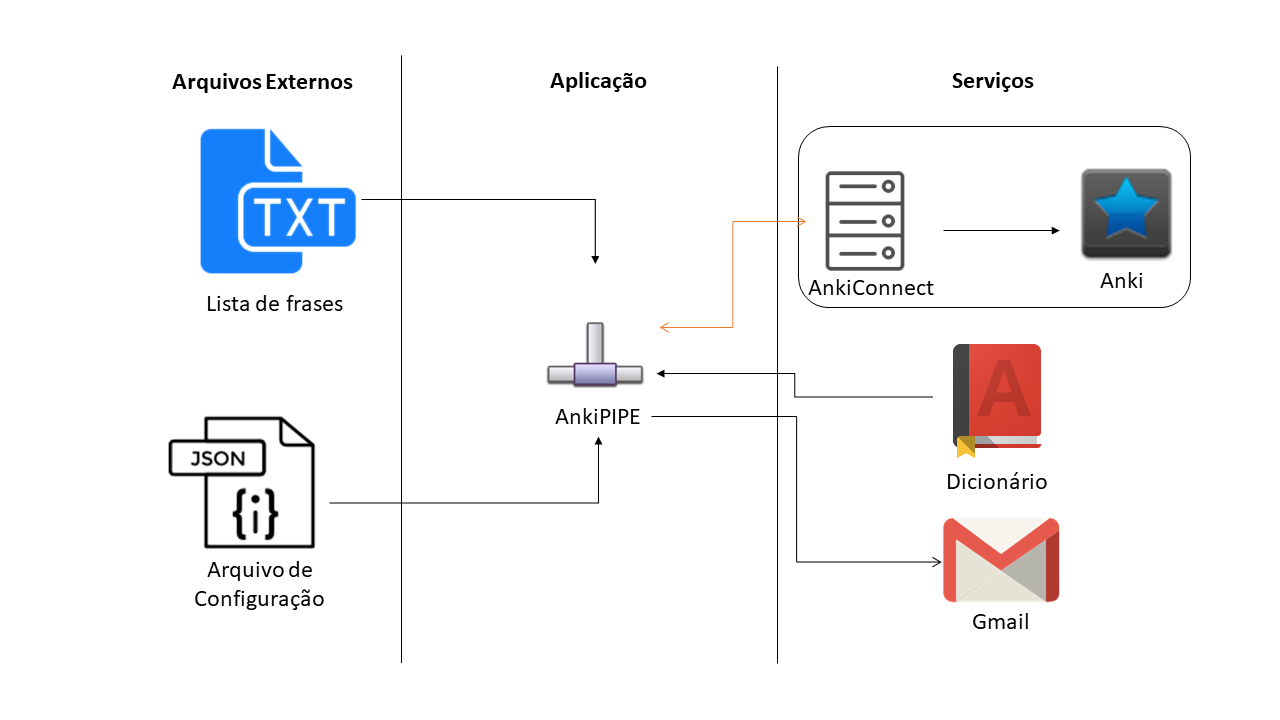
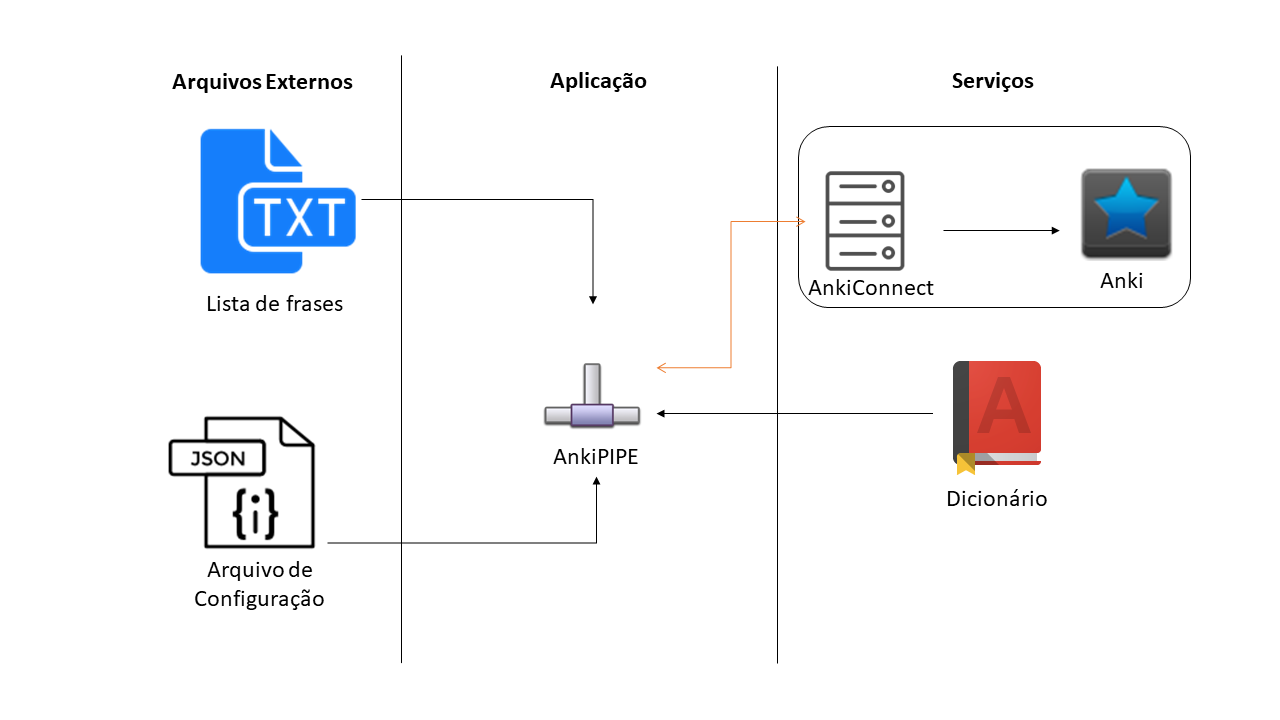
Refatoracao do readme

diff --git a/README.md b/README.md
@@ -6,109 +6,45 @@ Adicionar frases no anki para manter os estudos em dia consome um tempo que cada
 
 **Escopo:**
 
-Através de uma lista de frases em um arquivo de extensão txt, com a palavra não entendida entre |PIPE|, o software irá pesquisar a palavra em um WebService do Oxford Dictionary retornando seu significado, exemplos de utilização e transcrição fonética. Sendo assim, com estes dados em mãos a aplicação irá cadastrá-las no Anki através de um plugin, AnkiConnect, que quando instalado no Anki, faz com que o mesmo seja capaz de realizar interações através de um WebService RESTful.
-Algumas informações sobre o ambiente da máquina do usuário deverão ser inseridas em um arquivo JSON em um local definido.
-Antes de finalizar a execução, um log deverá ser salvo na máquina e um relatório deverá ser enviado por e-mail.
+Através de uma lista de frases em um arquivo de extensão txt, com a palavra não entendida entre !PALAVRA!, o software irá pesquisar a palavra em um dicionário online utilizando técnicas de Web Scraping retornando seu significado, exemplos de utilização e transcrição fonética. Sendo assim, com estes dados em mãos a aplicação irá cadastrá-las no Anki através de um plugin, AnkiConnect, que quando instalado no Anki, faz com que o mesmo seja capaz de realizar interações através de um WebService RESTful.
+Antes de finalizar a execução, um log deverá ser salvo na máquina.
 
 **Restrições do Escopo:**
-* O dicionário utilizado pela aplicação não pode ser alterado;
-* Para o correto funcionamento da aplicação o arquivo de configuração JSON deve estar corretamente configurado;
 * No momento da execução da aplicação o Anki deve estar aberto e com o plugin AnkiConnect configurado;
 * A aplicação somente faz o cadastro de novos cards, não realiza nenhum tipo de manipulação dos decks ou cards;
 
-<img src="Arquivos/imagens/AnkiPIPEArquitetura.png" alt="imagem da arquitetura do projeto" />
+<img src="files/images/AnkiPIPEArquitetura.png" alt="imagem da arquitetura do projeto" />
 
 **Componentes:**
 * Aplicação AnkiPIPE
-* Web Api - Oxford Dictionary
+* WebSite - Collins Dictionary
 * Web Api - AnkiConnect
 
 **Componentes Auxiliares:**
 * Arquivo de listas
-* Arquivo de configuração JSON
 
 **Regras de Negócio**
-1. Toda palavra entre |PIPE| deve ser pesquisada no dicionário;
+1. Toda palavra entre !PALAVRA! deve ser pesquisada no dicionário;
 2. Frases com mais de uma palavra entre |PIPE| não devem ser processadas;
 3. Ao pesquisar uma palavra no dicionário, o significado, exemplos de utilização e transcrição fonética devem ser recuperados;
 4. Toda frase com palavra já consultada deve ser cadastrada em um card;
 5. Um card reflete em somente uma frase e palavra;
 6. Ao final da execução, um log txt deve ser gerado e salvo na máquina;
-7. Ao final da execução, um relatório deve ser enviado por e-mail;
-8. O relatório deve conter o deck, quantidade de cards, a meta do ano, quantidade para alcançar a meta, média para alcançar a meta;
-
 
 **Requisitos Funcionais**
 1. Ao iniciar a execução, a aplicação deve consultar a lista de frases com palavras não entendidas;
-2. A aplicação pesquisará o significado de cada palavra entre |PIPE|, caso tenha mais de uma palavra, a linha será abortada, incluindo no log de execução que determinada frase tem mais de uma palavra não entendida e não pode ser processada;
+2. A aplicação pesquisará o significado de cada palavra entre !PALAVRA!, caso tenha mais de uma palavra, a linha será abortada, incluindo no log de execução que determinada frase tem mais de uma palavra não entendida e não pode ser processada;
 3. Caso a frase não tenha nenhuma palavra destacada, aplicar o mesmo tratamento de palavras não entendidas desejadas;
-4. O local de pesquisa da lista de frases, o sync após o cadastro, o baralho em que as frases serão consultadas, credenciais e destinatário do relatório serão consultados no arquivo de configuração JSON;
-5. A aplicação deverá gerar um log de sua execução;
-6. Após adicionar os novos cards, a aplicação deve enviar um e-mail informando: o deck, quantidade de cards, a meta do ano, quantidade para alcançar a meta, média para alcançar a meta;
-7. Caso o sync esteja ativado no arquivo de configuração, enviar comando de sync para o AnkiConnect;
+4. A aplicação deverá gerar um log de sua execução;
 
 **Requisitos Não-Funcionais**
-1. A pesquisa de palavras entre |PIPES| deverá ser realizada via Regular Expression;
+1. A pesquisa de palavras entre !PALAVRA! deverá ser realizada via Regular Expression;
 2. A máquina no momento da execução da aplicação devera estar conectada à internet, estar executando o Anki com o plugin AnkiConnect devidamente configurado e também ter o Node.JS instalado;
-3. Para a correta execução da aplicação, o arquivo JSON deverá estar configurado adequadamente;
-
-**Parametrização do Arquivo de Configuração:**
-<table>
-        <tr>
-            <th>Campo</th>
-            <th>Descrição</th>
-        </tr>
-        <tr>
-            <td>LocalLista</td>
-            <td>Local da lista em que as frases ficarão armazenadas</td>
-        </tr>
-        <tr>
-            <td>Sync</td>
-            <td>Sim ou não para indicar se após a execução a aplicação deve ou não realizar a sincronização</td>
-        </tr>
-        <tr>
-            <td>Baralho</td>
-            <td>O baralho em qual os cards devem ser cadastrados</td>
-        </tr>
-        <tr>
-            <td>Destinatário do e-mail</td>
-            <td>E-mail para qual o relatório será enviado</td>
-        </tr>
-        <tr>
-            <td>e-mail</td>
-            <td>E-mail que será utilizado para a aplicação enviar os relatórios</td>
-        </tr>
-        <tr>
-            <td>senha</td>
-            <td>Senha do e-mail que a aplicação utilizará para enviar os relatórios</td>
-        </tr>
-        <tr>
-            <td>localLog</td>
-            <td>Local onde o arquivo txt referente ao log será salvo</td>
-        </tr>
-        <tr>
-            <td>api_id</td>
-            <td>id fornecido pela api do dicionário Oxford</td>
-        </tr>
-        <tr>
-            <td>app_key</td>
-            <td>key fornecida pela api do dicionário Oxford</td>
-        </tr>
-        <tr>
-            <td>url_AnkiConnect</td>
-            <td>Endereço do servidor em que o Anki está sendo executado</td>
-        </tr>
-        <tr>
-            <td>port_AnkiConnect</td>
-            <td>Porta utilizada pelo servidor em que o Anki está sendo executado</td>
-        </tr>
-    </table>
     
 **Detalhamento Técnico:**
-
 * Linguagem de Programação: Javascript (node.js);
 * Técnicas de Programação: Test-Driven-development (TDD);
 * Padrão API: REST;
 
 **Workflow de Execucao:**
-<img src="Arquivos/imagens/ExecucaoWorkflow.png" alt="Imagem do workflow de execucao" />
+<img src="files/images/ExecucaoWorkflow.png" alt="Imagem do workflow de execucao" />
